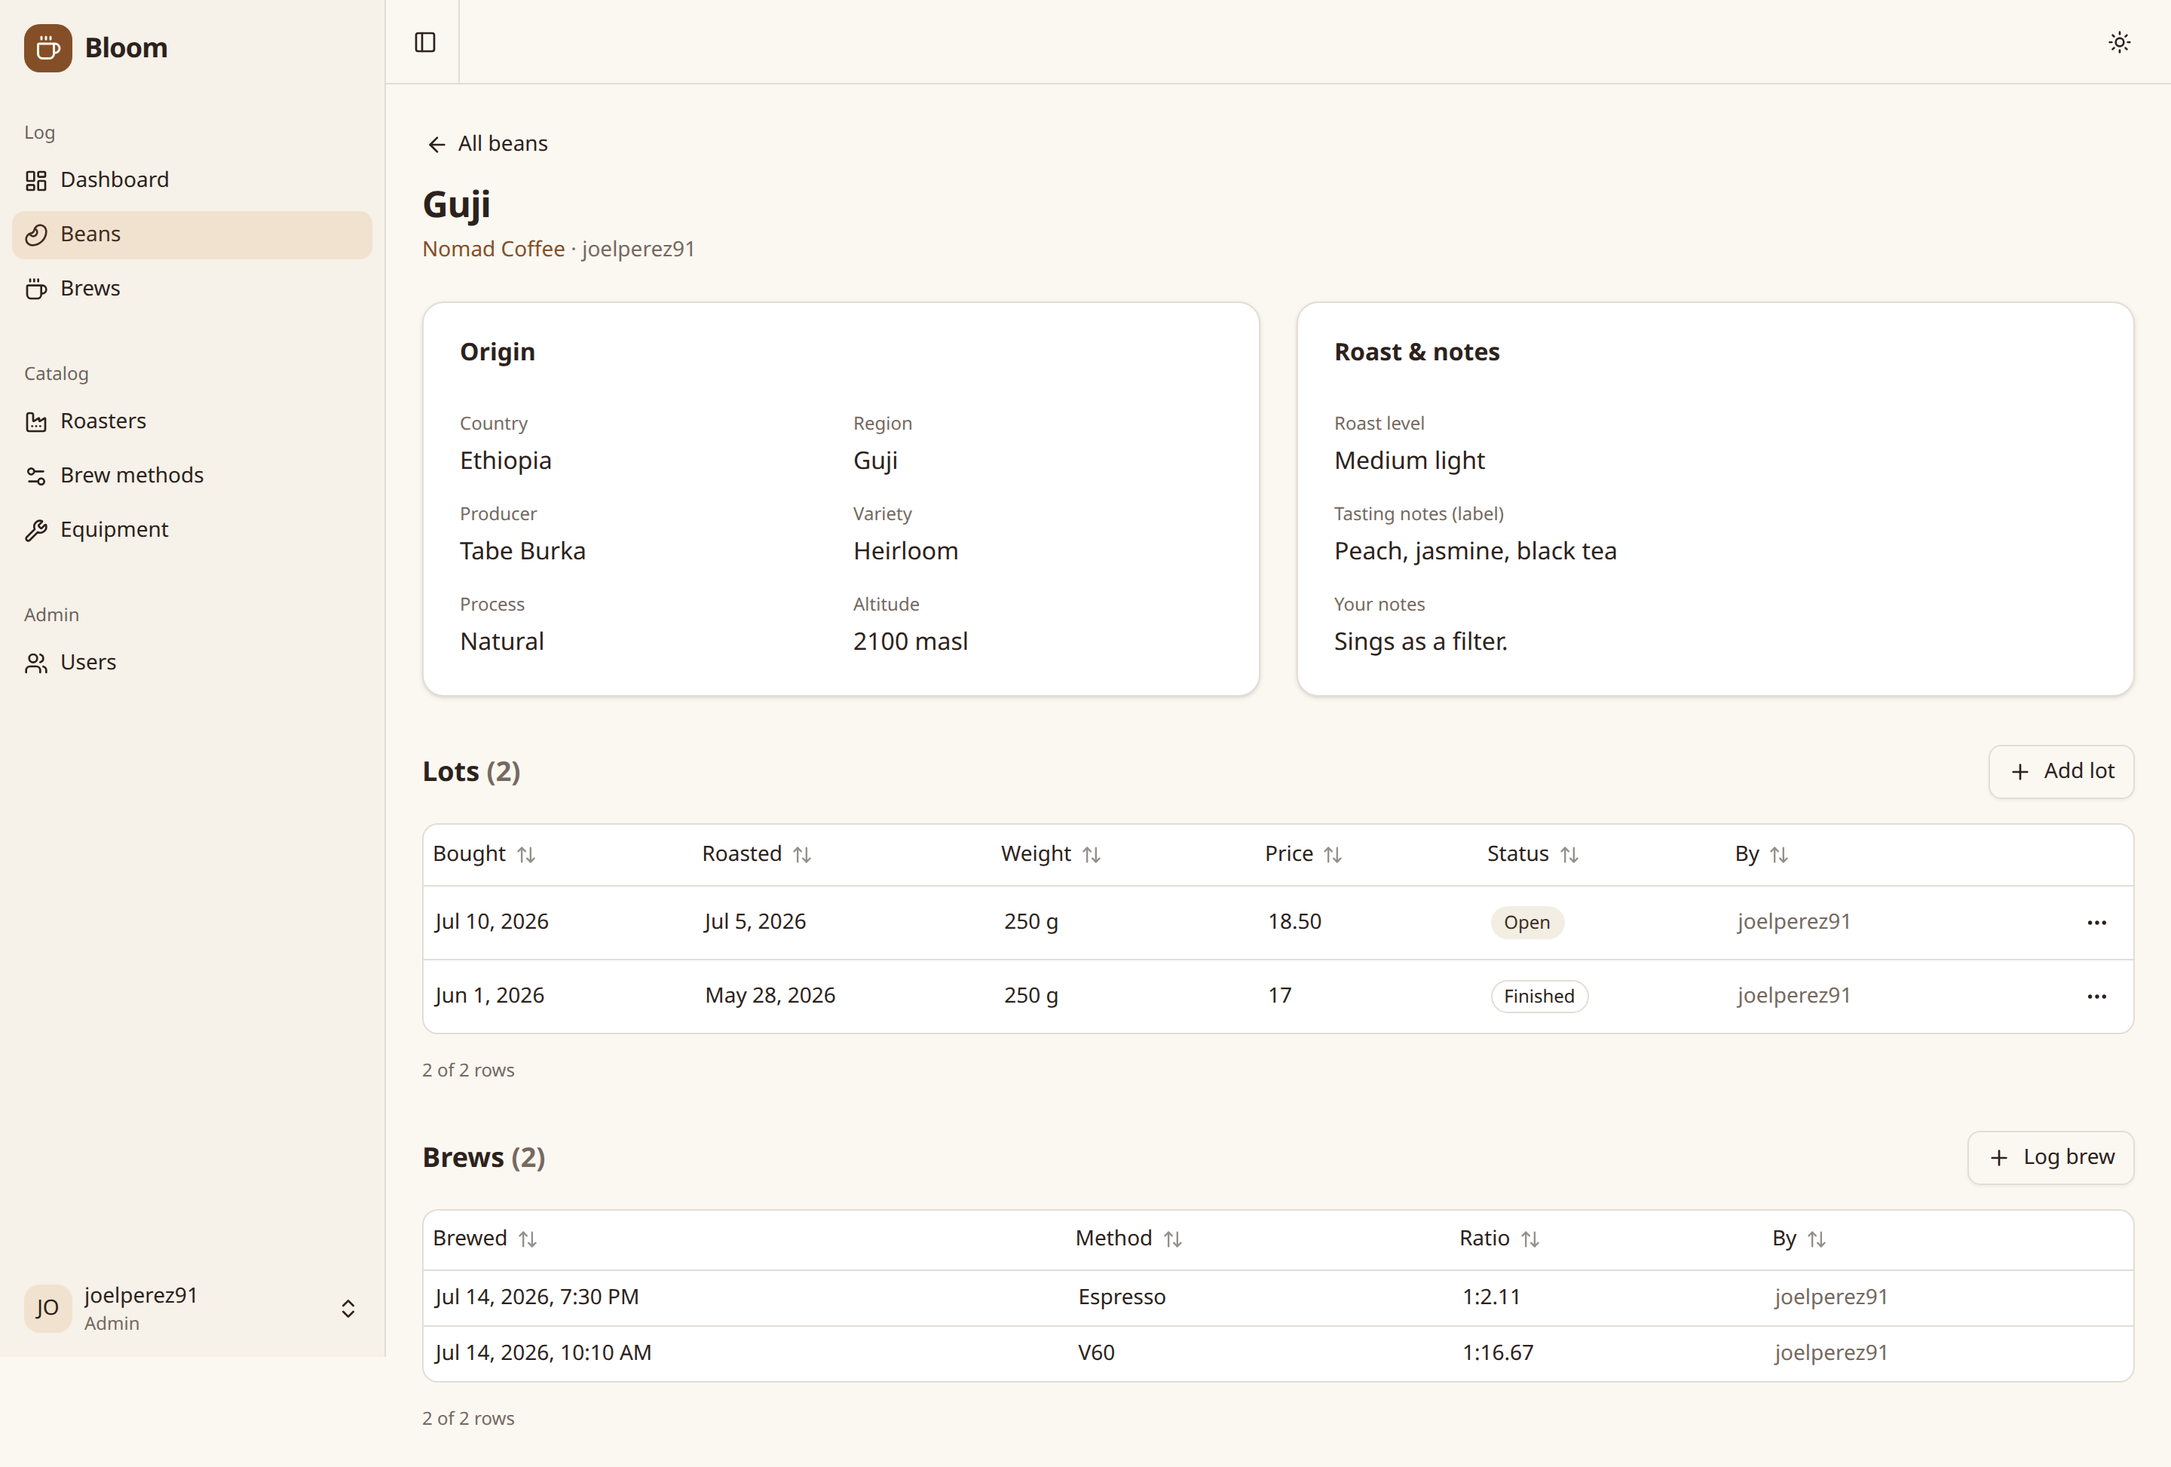
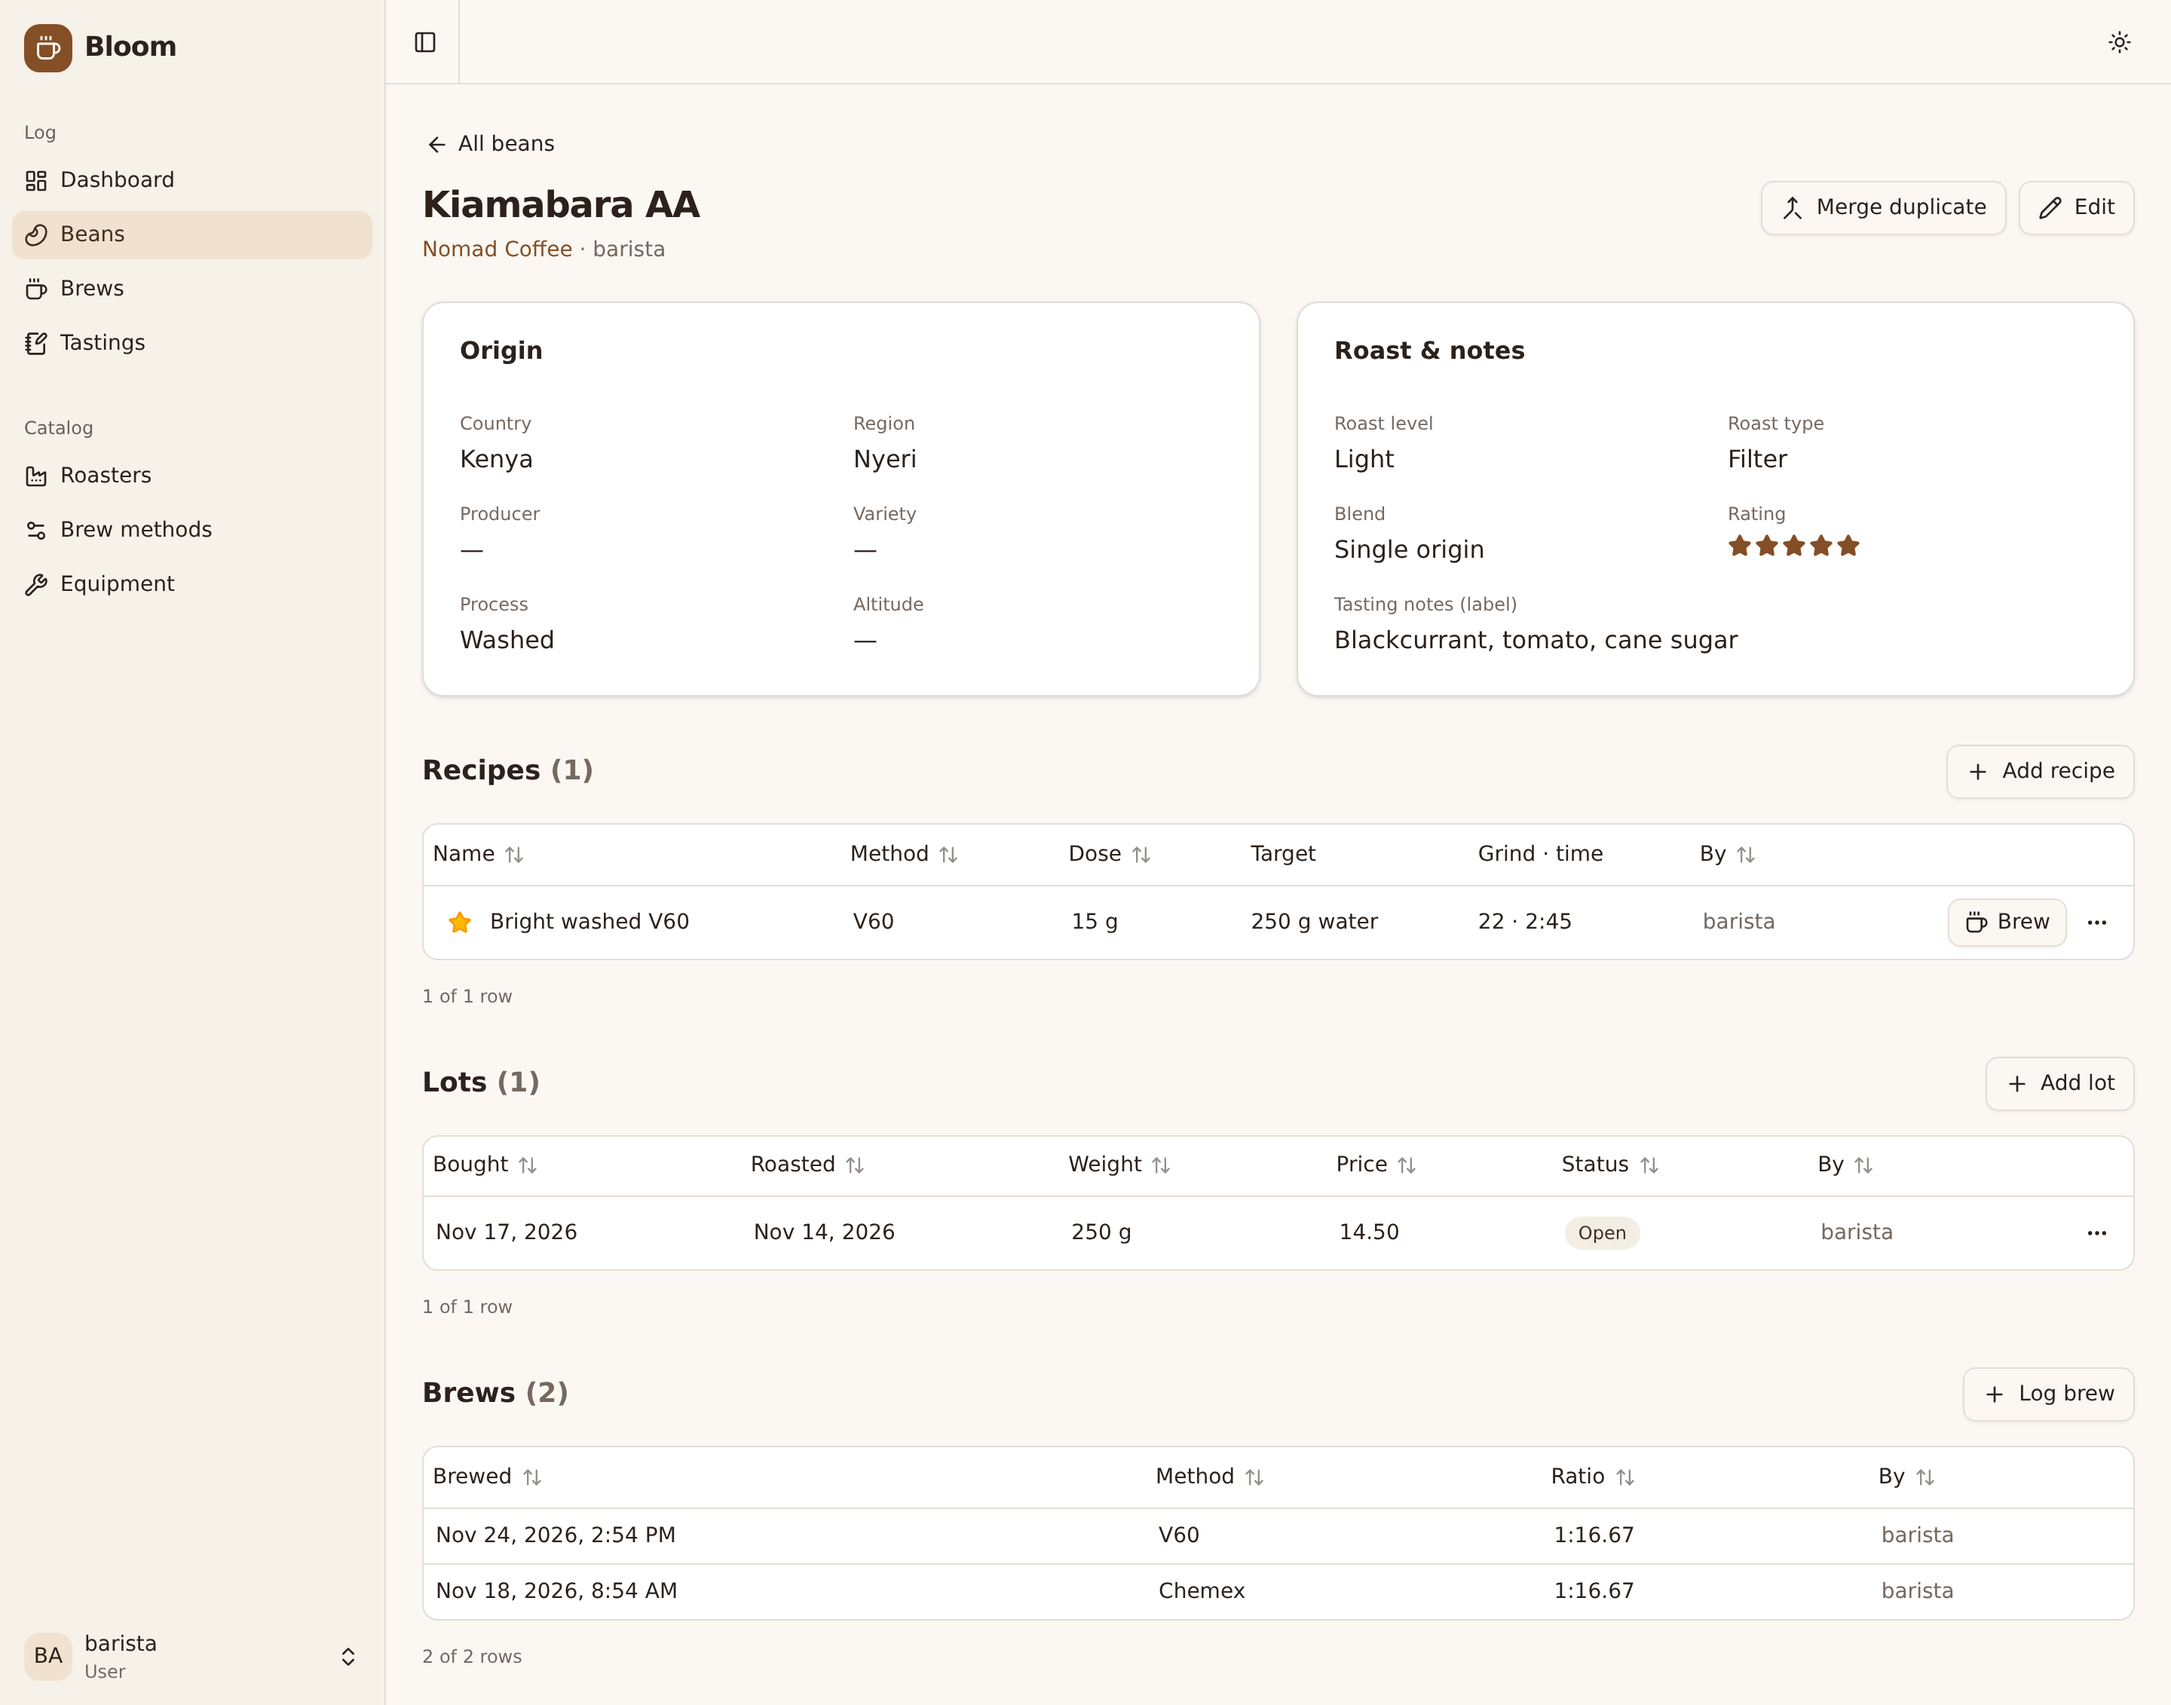
docs: refresh the README screenshots and add dark variants
The old screenshots predated stars, recipes, tastings and the current menu, and one
showed a real username. They are retaken on the demo seed (user 'barista') at 1440x900
@2x, in light and dark, and the README serves the one matching the reader's theme.

diff --git a/README.md b/README.md
@@ -24,17 +24,42 @@ treat it as a playground, not as storage.
 
 ## Screenshots
 
-The shared dashboard — coffees, brews and recent extractions at a glance:
+Each screenshot follows your GitHub theme, light or dark, like the app itself.
 
-![Bloom dashboard](docs/screenshots/dashboard.png)
+Your dashboard: totals for the shared log and your most recent brews, with your own star
+rating and the control-chart verdict on each:
 
-| Beans, filterable by roaster | A coffee: its lots and its brews |
-| :--: | :--: |
-| ![Beans list](docs/screenshots/beans.png) | ![Bean detail](docs/screenshots/bean-detail.png) |
+<picture>
+  <source media="(prefers-color-scheme: dark)" srcset="docs/screenshots/dashboard-dark.png">
+  <img alt="Bloom dashboard" src="docs/screenshots/dashboard.png">
+</picture>
+
+The coffee catalog, filterable by roaster, roast type and origin, and a single coffee with
+its recipes, lots and brews:
+
+<table>
+  <tr>
+    <td>
+      <picture>
+        <source media="(prefers-color-scheme: dark)" srcset="docs/screenshots/beans-dark.png">
+        <img alt="Beans list" src="docs/screenshots/beans.png">
+      </picture>
+    </td>
+    <td>
+      <picture>
+        <source media="(prefers-color-scheme: dark)" srcset="docs/screenshots/bean-detail-dark.png">
+        <img alt="Bean detail" src="docs/screenshots/bean-detail.png">
+      </picture>
+    </td>
+  </tr>
+</table>
 
 A brew with its preparation details, extraction-yield diagnostics and a tasting:
 
-![Brew detail](docs/screenshots/brew-detail.png)
+<picture>
+  <source media="(prefers-color-scheme: dark)" srcset="docs/screenshots/brew-detail-dark.png">
+  <img alt="Brew detail" src="docs/screenshots/brew-detail.png">
+</picture>
 
 ## Quick start
 
